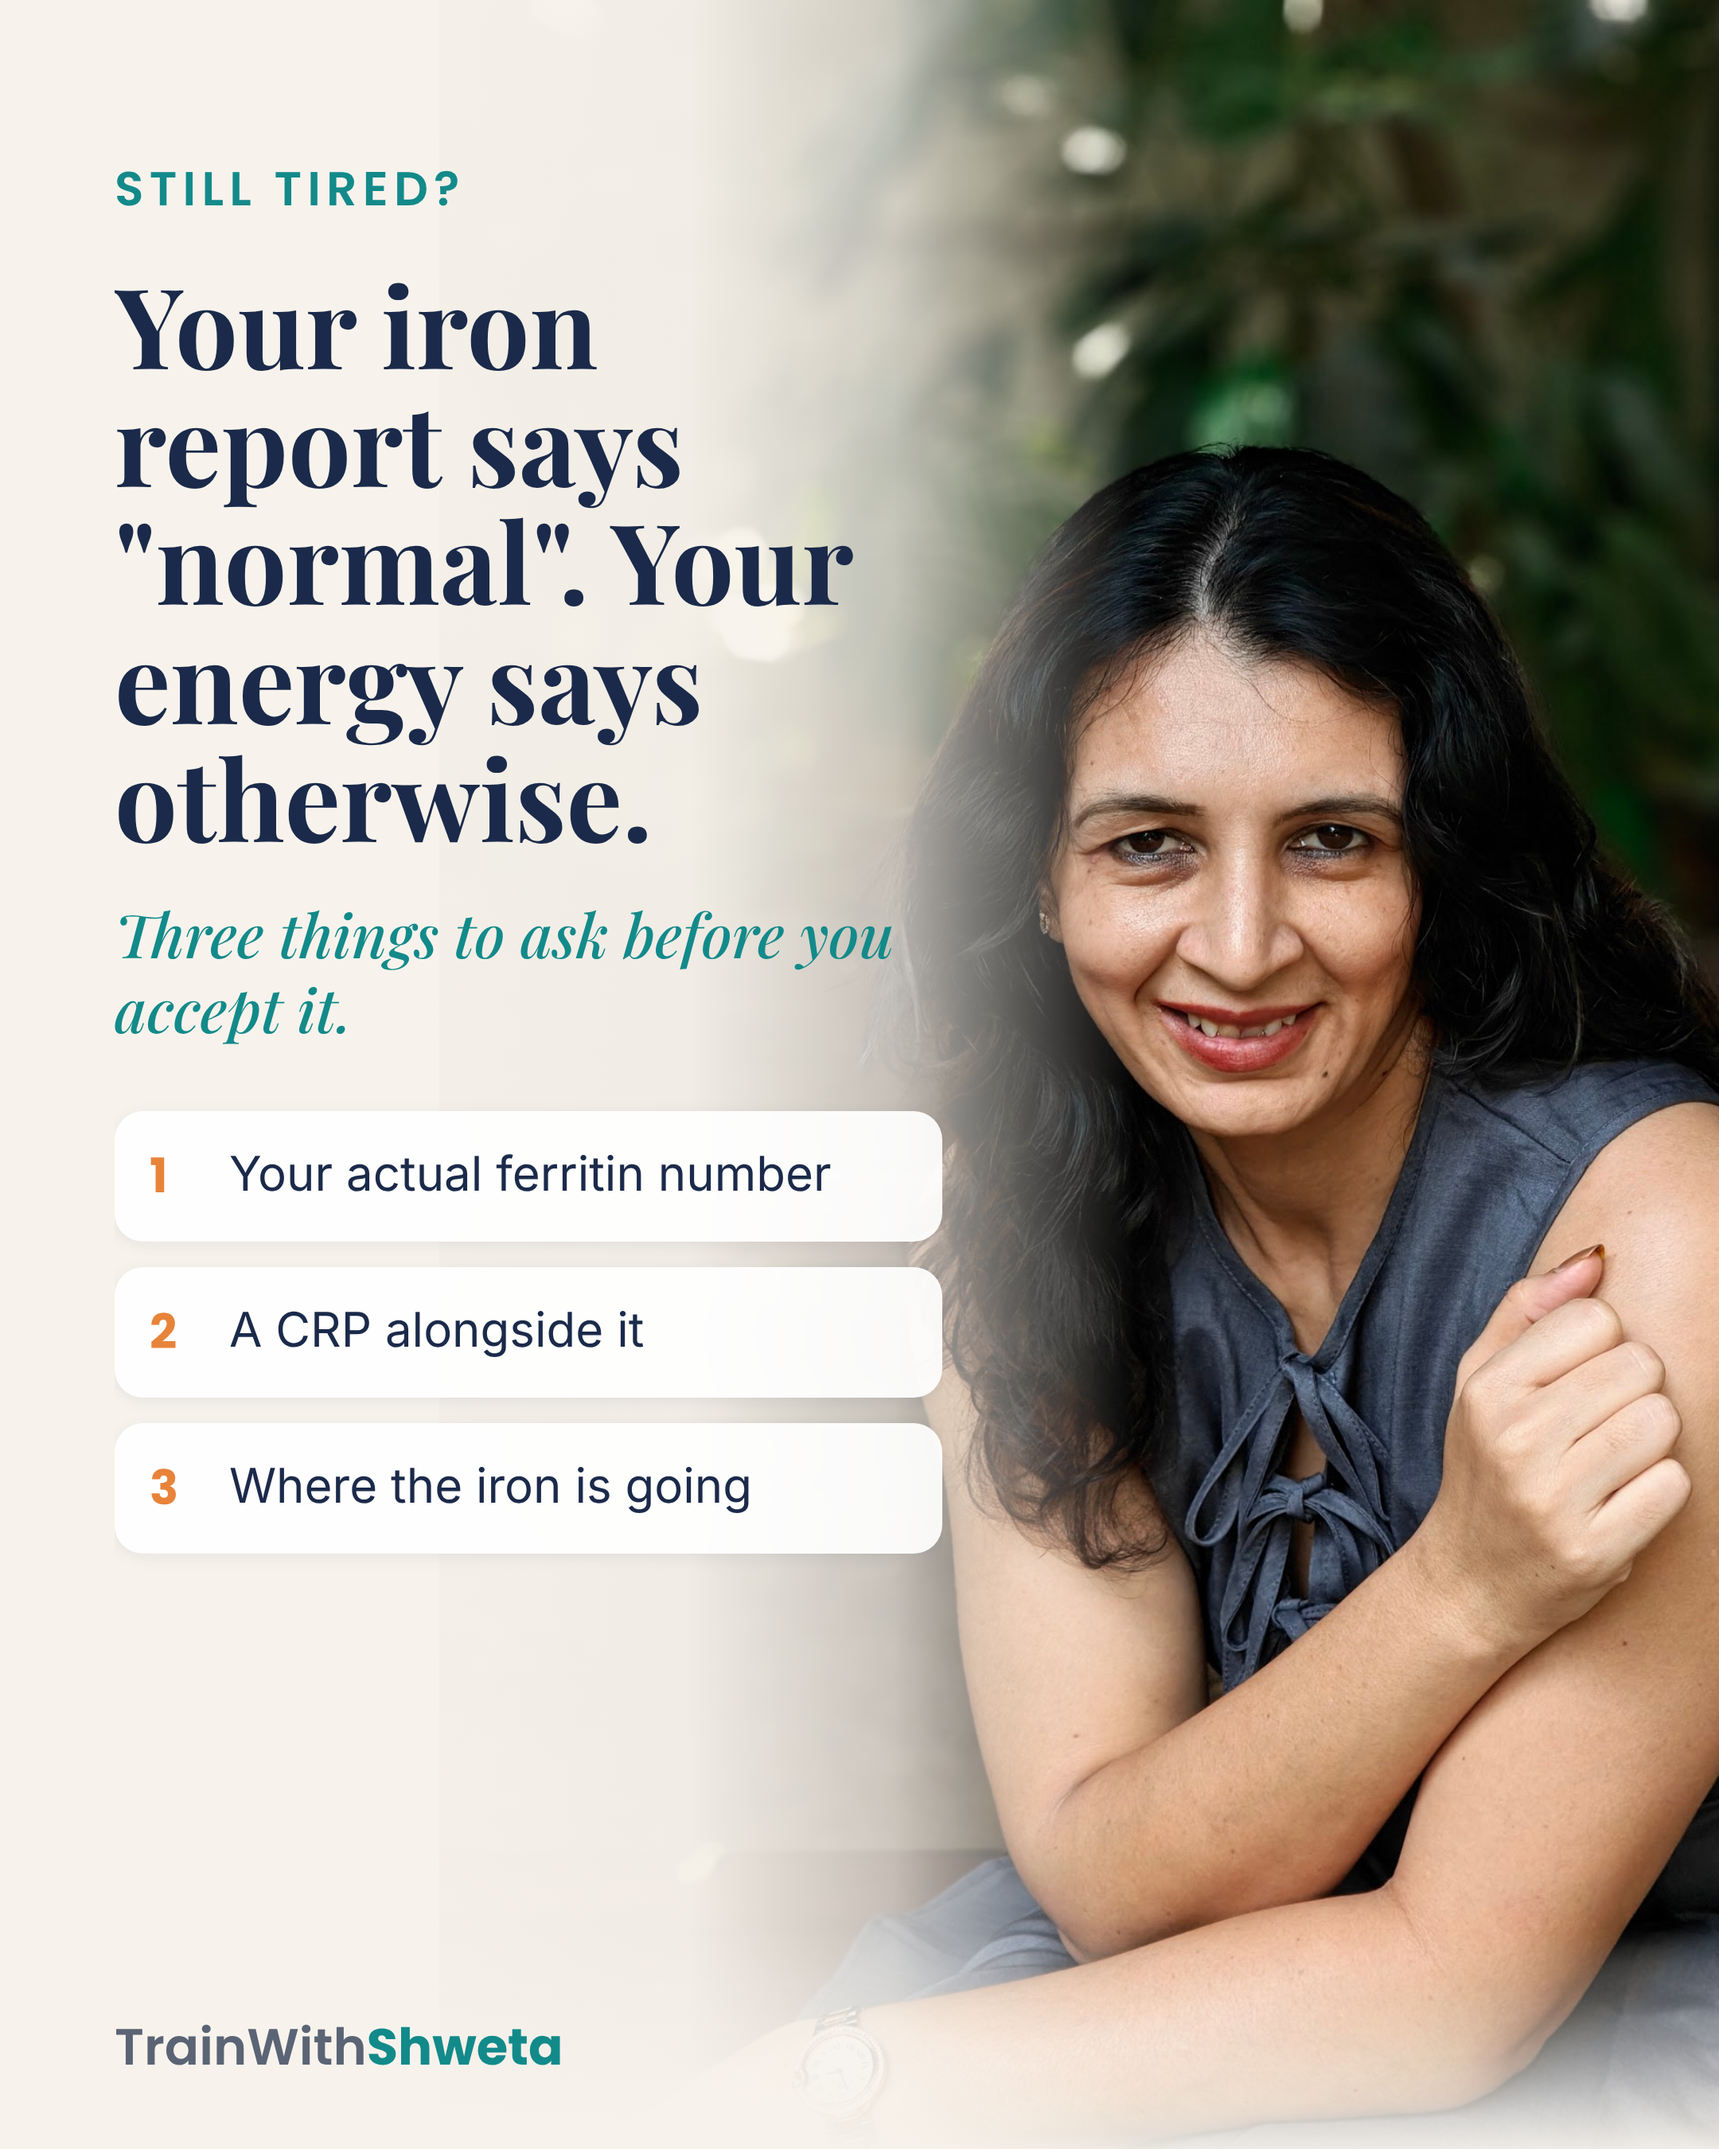
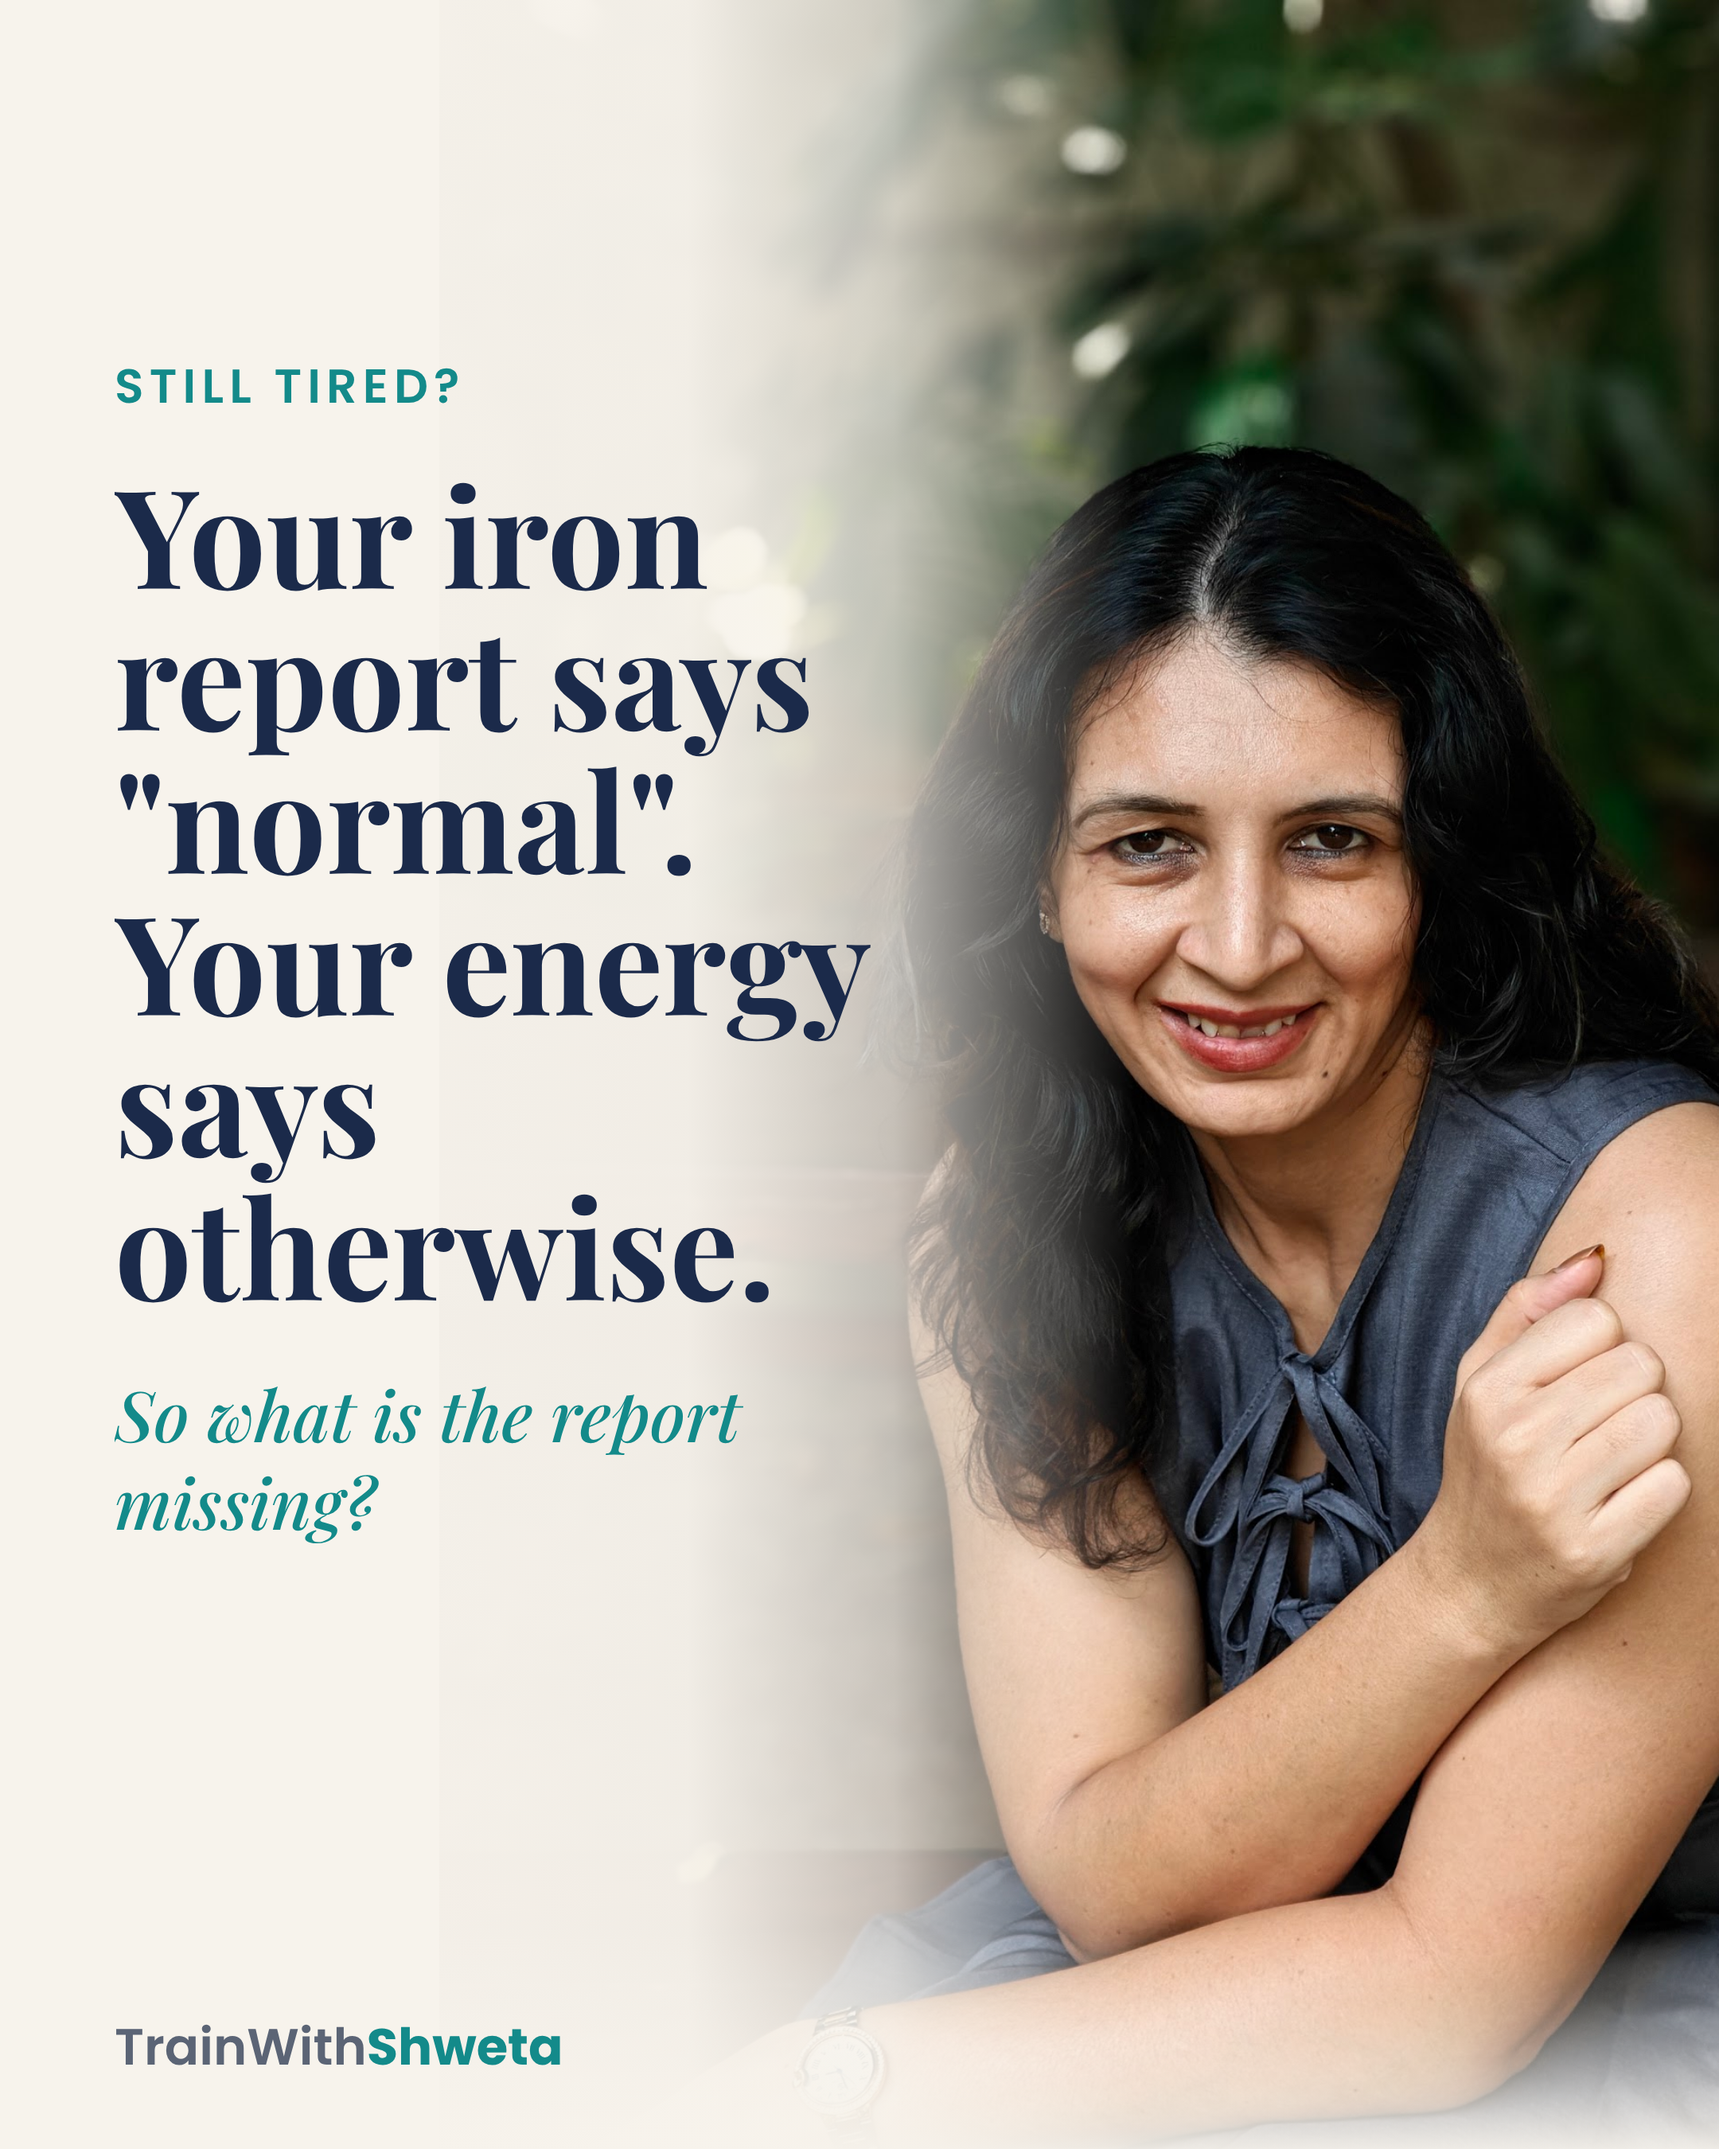
Wednesday: lighter photo image (headline + question, no list), centred layout for text-light photos; validated; Drive updated
Claude-Session: https://claude.ai/code/session_01E9p3Ym4JDej3nPuVLeN3C1

Changed region(s): [[0.062, 0.1244, 0.5583, 0.7467], [0.1551, 0.0622, 0.2481, 0.0933], [0.062, 0.0622, 0.1241, 0.0933]]

diff --git a/engine/images.py b/engine/images.py
@@ -175,6 +175,12 @@ def _photo(spec, w, h):
     .foot {{ background: linear-gradient(0deg, rgba(247,243,236,.95), rgba(247,243,236,0)); padding-top: 40px;
              left:0; right:0; bottom:0; padding: 50px 72px 40px; }}
     """
+    if not items:  # light layout: headline centred and larger, no empty panel below
+        css += """
+    .col { justify-content: center; top: 0; bottom: 120px; }
+    h1 { font-size: 86px; line-height: 1.04; }
+    .it { font-size: 44px; margin-top: 34px; }
+    """
     pts = "".join(f"<div class='pt'><div class='n'>{i + 1}</div><div class='t'>{_e(it)}</div></div>"
                   for i, it in enumerate(items))
     body = f"""<img class='ph' src='{photo}'><div class='veil'></div>
